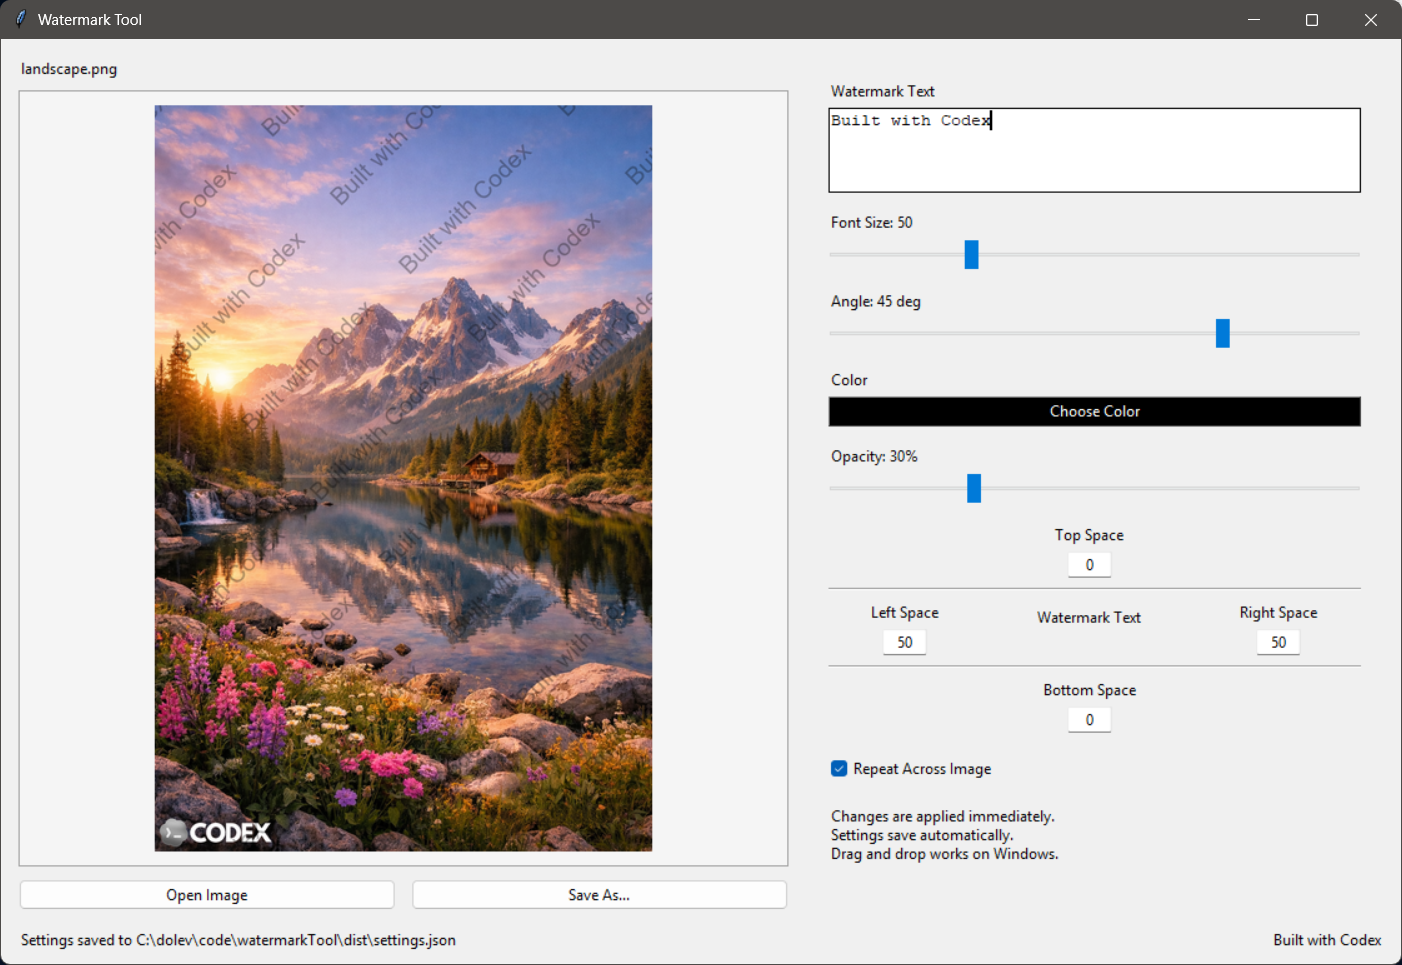
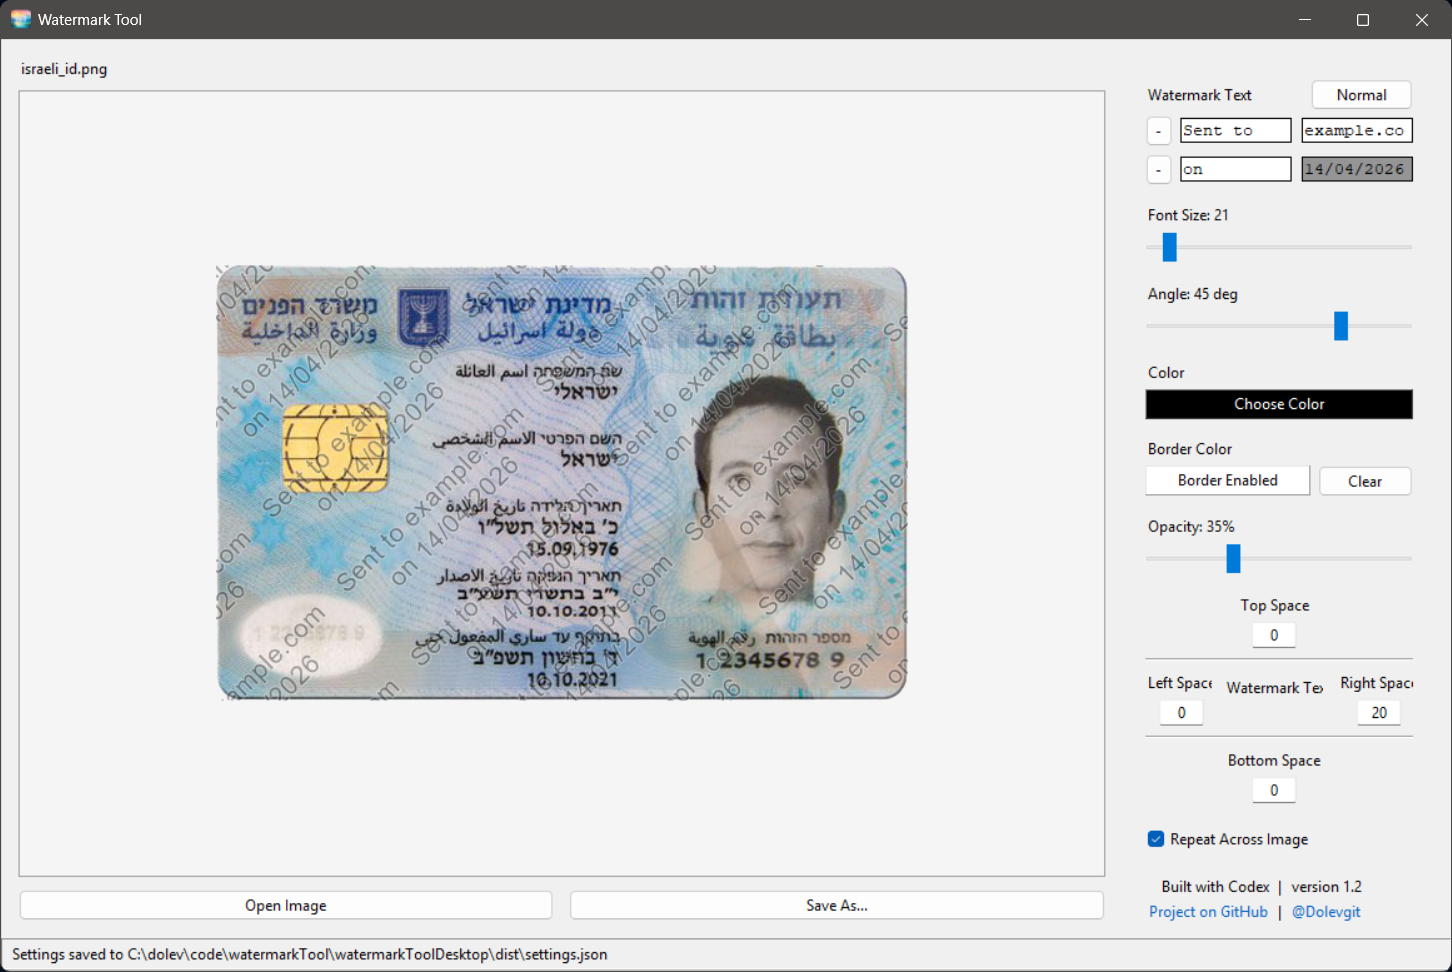
Better default settings

diff --git a/main.py b/main.py
@@ -31,12 +31,20 @@ SETTINGS_DATE_TOKEN = "{date}"
 DEFAULT_SETTINGS = {
     "text": "Build with Codex",
     "text_mode": "normal",
-    "split_text": None,
-    "font_size": 36,
+    "split_text": [
+        [
+        "Sent to", "example.com"
+        ],
+        [
+        "on",
+        "{date}"
+        ]
+    ],
+    "font_size": 21,
     "angle": 45,
     "color": "#000000",
-    "border_color": "",
-    "opacity": 0.3,
+    "border_color": "#ffffff",
+    "opacity": 0.35,
     "repeat": True,
     "space_left": 0,
     "space_right": 0,
